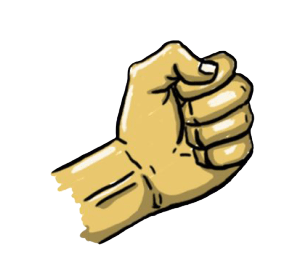
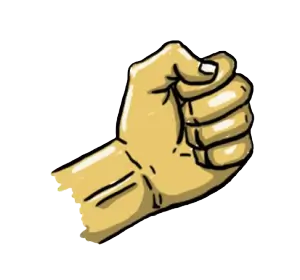
images reduced in size

diff --git a/README.md b/README.md
@@ -116,7 +116,7 @@ The W3C Markup Validator and W3C CSS Validator Services were used to ensure ther
 
 ### Lighthouse Testing
 
-Initial lighthouse scores produced a performance of 96-98 & accessibility of 94-100 The reason given for the accessibility score on a mobile is "Background and foreground colors do not have a sufficient contrast ratio." This points to the win and lose colours used against the white background. As someone with a type of red-green colour-blindness (Protan), I have had no issues telling the colours apart or reading text.
+Initial lighthouse scores produced a performance of 96-99 & accessibility of 94-100 The reason given for the accessibility score on a mobile is "Background and foreground colors do not have a sufficient contrast ratio." This points to the win and lose colours used against the white background. As someone with a type of red-green colour-blindness (Protan), I have had no issues telling the colours apart or reading text.
 
 - Mobile Results
 
